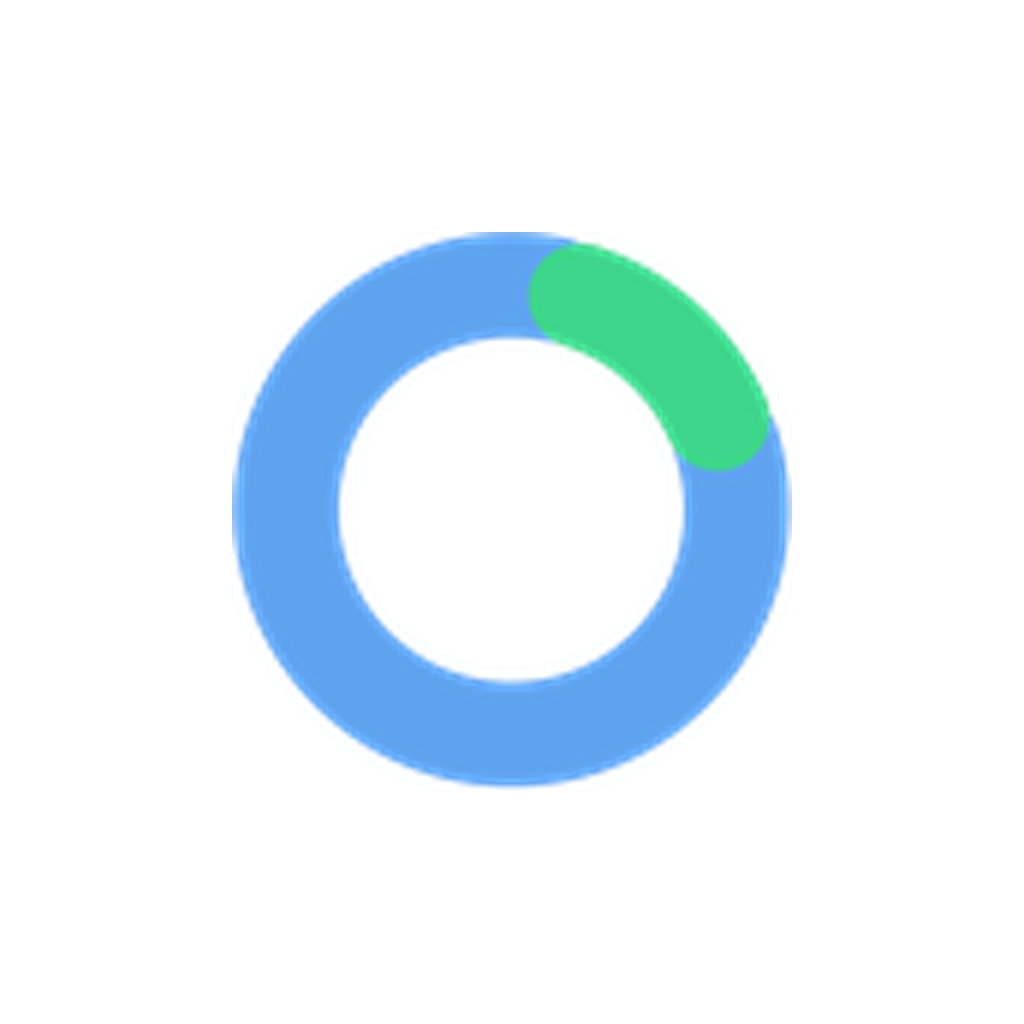
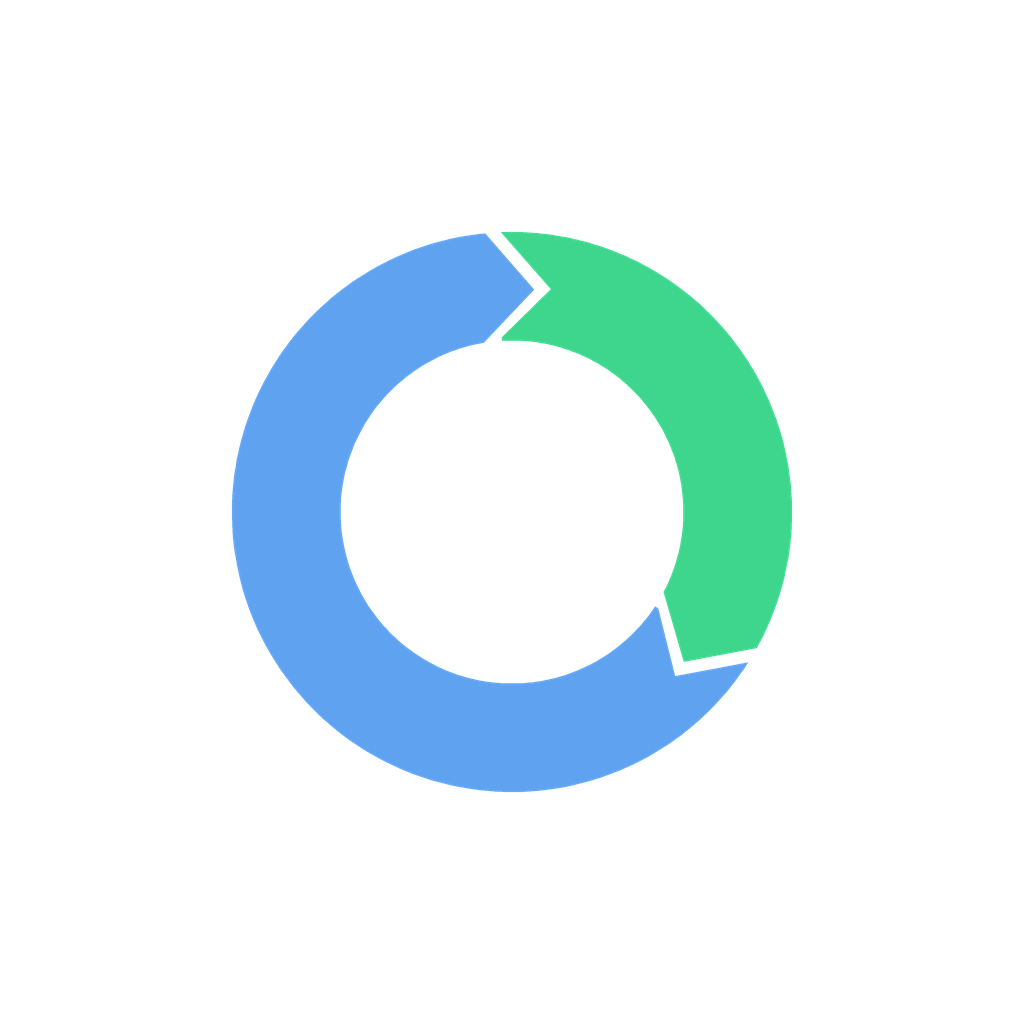
Replace raster ring/lockup with vector RingMark
The PNG exports looked jagged at display sizes (hard-threshold alpha, no
antialiasing). Web and mobile now render the ring as a real vector with a
live-text wordmark; brand PNGs regenerated. iOS build number 17.

diff --git a/mobile/components/ui.tsx b/mobile/components/ui.tsx
@@ -4,13 +4,17 @@ import { router } from "expo-router";
 import * as Haptics from "expo-haptics";
 import { useAuth } from "@/lib/auth-context";
 import { Icon } from "@/components/icon";
+import { RingMark } from "@/components/ring-mark";
 
-// Build Guide v2 Part 2.2 — the supplied brand assets, never redrawn. The
-// lockup (ring + wordmark) is the in-app masthead; the ring on its own is
-// the avatar mark and (Part 6.3) the payout progress indicator.
-export const LOCKUP = require("../assets/brand/lockup.png");
-export const RING = require("../assets/brand/ring.png");
-const LOCKUP_RATIO = 676 / 94;
+// Build Guide v2 Part 2.2 — the brand mark, never redrawn as a plain
+// circle. Rebrand, 22 Sept — sharp-cut ring replaces the old soft
+// rounded-pill ring, on direct instruction. First shipped as a raster PNG
+// (JPEG export, background removed) but that looked visibly
+// pixellated/jagged at real display sizes — hard-threshold alpha keying
+// has no edge antialiasing. Lockup and the ring mark are now real vector
+// components (RingMark, components/ring-mark.tsx) instead of flat images:
+// crisp at any size, and the wordmark is live Text rather than baked into
+// a raster, so it can never end up off-ratio or blurry from scaling either.
 
 // RN throws "Text strings must be rendered within a <Text> component" the
 // moment JSX text is a *sibling* of an interpolation (e.g. `Text {n} more`
@@ -72,13 +76,25 @@ export function AppHeader({ title, right }: { title?: string; right?: ReactNode 
 }
 
 export function Lockup({ height = 26 }: { height?: number }) {
+  // Ring + live "Trade"/"Sura" text, sized off one prop the same way the
+  // old flat image was — callers (AppHeader, sign-in, sign-up, welcome)
+  // don't need to change. Proportions (text cap-height vs. ring diameter,
+  // the gap between them) matched by eye against the original lockup
+  // composition rather than measured, since there's no longer a fixed
+  // image aspect ratio to derive them from.
+  const fontSize = Math.round(height * 0.72);
   return (
-    <Image
-      source={LOCKUP}
+    <View
+      className="flex-row items-center"
+      style={{ gap: Math.round(height * 0.14) }}
       accessibilityLabel="TradeSura"
-      style={{ height, width: Math.round(height * LOCKUP_RATIO) }}
-      resizeMode="contain"
-    />
+    >
+      <RingMark size={height} />
+      <Text style={{ fontSize, lineHeight: fontSize * 1.05 }} className="font-extrabold">
+        <Text className="text-white">Trade</Text>
+        <Text style={{ color: "#5FA3F0" }}>Sura</Text>
+      </Text>
+    </View>
   );
 }
 

diff --git a/app/page.tsx b/app/page.tsx
@@ -1,10 +1,10 @@
 "use client";
 
-import Image from "next/image";
 import { useEffect, useRef } from "react";
 import gsap from "gsap";
 import { ScrollTrigger } from "gsap/ScrollTrigger";
 import CursorGlow from "@/components/cursor-glow";
+import { RingMark } from "@/components/ring-mark";
 
 // Same language law as the mobile app's welcome screen (app/assets/TradeSura_Welcome_Screen_W0.html
 // §1): never "insurance", "cover", "protection", "warranty", "doorstep" in customer-facing copy.
@@ -106,14 +106,17 @@ export default function HomePage() {
         {/* Hero */}
         <section className="relative flex min-h-[92vh] flex-col items-center justify-center overflow-hidden px-6 py-24 text-center">
           <div className="relative flex flex-col items-center gap-6">
-            <Image
-              src="/brand/lockup.png"
-              alt="TradeSura"
-              width={340}
-              height={72}
-              priority
-              className="hero-fade h-auto w-[240px] sm:w-[320px]"
-            />
+            {/* Real vector mark + live text, not the old raster lockup —
+                that image was distorted here anyway (a fixed 340x72 box
+                that didn't match the source's true aspect ratio). See
+                components/ring-mark.tsx. */}
+            <div className="hero-fade flex items-center gap-3">
+              <RingMark size={48} />
+              <span className="text-4xl font-extrabold sm:text-6xl">
+                <span className="text-white">Trade</span>
+                <span className="text-[#5FA3F0]">Sura</span>
+              </span>
+            </div>
             <p className="hero-fade text-lg font-semibold text-flame sm:text-xl">Your trade. On plan.</p>
             <h1 className="hero-fade max-w-2xl text-3xl font-bold leading-tight sm:text-5xl">
               Your customers, paying you <span className="text-ok">every month.</span>

diff --git a/mobile/components/ring-mark.tsx b/mobile/components/ring-mark.tsx
@@ -1,0 +1,36 @@
+import Svg, { Path } from "react-native-svg";
+
+// The TradeSura ring mark, as real vector geometry rather than a raster
+// image. 22 Sept rebrand: the sharp-cut ring replaced the old soft
+// rounded-pill ring (on direct instruction), first shipped as a
+// background-removed JPEG export — which looked visibly pixellated/jagged
+// at real display sizes (hard-threshold alpha keying has no antialiasing,
+// so every edge was a hard staircase, worse the more the image was scaled).
+// This replaces that raster pipeline entirely: the two path `d` strings
+// below are the exact shape, measured from the original design via OpenCV
+// contour extraction + least-squares circle fitting on the source JPG
+// (scripts/ring_geometry.py has the full derivation and can regenerate
+// these), then re-expressed as true SVG elliptical-arc commands — exact
+// circles at any zoom, not a tessellated polygon. Renders crisply from a
+// favicon up to a full-bleed app icon with zero source-image artifacts.
+const GREEN_D =
+  "M 43.69 24.32 A 50.00 50.00 0 0 0 -2.01 -49.96 L 6.94 -39.79 L -1.76 -30.57 A 30.63 30.63 0 0 1 27.09 14.28 L 30.67 26.76 Z";
+const BLUE_D =
+  "M -4.79 -49.77 A 50.00 50.00 0 1 0 42.17 26.86 L 29.11 29.32 L 25.57 16.86 A 30.63 30.63 0 1 1 -5.05 -30.20 L 3.96 -39.72 Z";
+
+export const BRAND_BLUE = "#5FA3F0";
+export const BRAND_GREEN = "#3DD68C";
+
+/**
+ * The ring mark on its own — masthead icon, avatar fallback, app-icon
+ * source. `color` overrides both arcs to a single flat colour (for the
+ * white/monochrome variants); omit it for the real two-tone brand mark.
+ */
+export function RingMark({ size = 32, color }: { size?: number; color?: string }) {
+  return (
+    <Svg width={size} height={size} viewBox="-50 -50 100 100">
+      <Path d={BLUE_D} fill={color ?? BRAND_BLUE} />
+      <Path d={GREEN_D} fill={color ?? BRAND_GREEN} />
+    </Svg>
+  );
+}

diff --git a/components/shells.tsx b/components/shells.tsx
@@ -1,5 +1,6 @@
 import type { ReactNode } from "react";
 import { EMERGENCY_LINE } from "@/lib/compliance/interlock";
+import { RingMark } from "@/components/ring-mark";
 
 // Customer surface: white-label pages wearing the engineer's brand.
 // Emergency line sits permanently in the footer (spec Screen 10).
@@ -16,11 +17,10 @@ export function CustomerShell({
     <div className="flex-1 flex flex-col max-w-md w-full mx-auto min-h-screen bg-panel">
       <header className="bg-paper px-4 pt-4 pb-2.5 border-b border-line-soft">
         <div className="flex items-center gap-2">
-          {/* Build Guide v2 Part 15.1 — "Header: ring + trading name." The
-              supplied brand asset, never redrawn (Part 2.2). */}
-          {/* eslint-disable-next-line @next/next/no-img-element -- small
-              static brand asset, not worth Next/Image's optimisation path */}
-          <img src="/brand/ring.png" alt="" width={22} height={22} />
+          {/* Build Guide v2 Part 15.1 — "Header: ring + trading name." Real
+              vector (RingMark), not a raster image — see that component's
+              comment for why the earlier PNG export was replaced. */}
+          <RingMark size={22} />
           <div className="font-disp text-xl font-bold uppercase tracking-wide">
             {tradingName} <span className="text-flame">Care Plans</span>
           </div>

diff --git a/components/ring-mark.tsx b/components/ring-mark.tsx
@@ -1,0 +1,17 @@
+// Web counterpart of mobile/components/ring-mark.tsx — same measured path
+// data (see scripts/ring_geometry.py), plain SVG instead of react-native-svg
+// since this runs in the DOM. Kept in sync by hand; both are small and
+// change only if the mark itself is redesigned again.
+const GREEN_D =
+  "M 43.69 24.32 A 50.00 50.00 0 0 0 -2.01 -49.96 L 6.94 -39.79 L -1.76 -30.57 A 30.63 30.63 0 0 1 27.09 14.28 L 30.67 26.76 Z";
+const BLUE_D =
+  "M -4.79 -49.77 A 50.00 50.00 0 1 0 42.17 26.86 L 29.11 29.32 L 25.57 16.86 A 30.63 30.63 0 1 1 -5.05 -30.20 L 3.96 -39.72 Z";
+
+export function RingMark({ size = 22, color }: { size?: number; color?: string }) {
+  return (
+    <svg width={size} height={size} viewBox="-50 -50 100 100" aria-hidden="true">
+      <path d={BLUE_D} fill={color ?? "#5FA3F0"} />
+      <path d={GREEN_D} fill={color ?? "#3DD68C"} />
+    </svg>
+  );
+}

diff --git a/scripts/ring_geometry.py b/scripts/ring_geometry.py
@@ -1,0 +1,124 @@
+"""
+Precise geometric definition of the TradeSura sharp-cut ring mark, measured
+from the source design (app/assets/brand/logo-transparent.JPG) via OpenCV
+contour extraction + least-squares circle fitting (22 Sept rebrand).
+
+This replaces the raster (JPG -> background-removed PNG) pipeline, which
+produced visible pixellation/aliasing at real display sizes (hard-threshold
+alpha keying has no antialiasing). A true vector definition renders cleanly
+at any size — small favicon or large app icon alike — with no source-image
+artifacts at all.
+
+Coordinate system: unit circle, center (0,0), outer radius 1.0. Angles in
+degrees, standard math convention (0=east/3-o'clock, 90=north/12-o'clock,
+increasing = counterclockwise, matching how the shape actually reads on
+screen once paired with the SVG/PIL y-flip each renderer below applies.
+"""
+import math
+
+OUTER_R = 1.0
+INNER_R = 490.0 / 800.0  # 0.6125, measured ratio
+
+BRAND_BLUE = (95, 163, 240)   # #5FA3F0
+BRAND_GREEN = (61, 214, 140)  # #3DD68C
+
+# Each cut is the 3-vertex zigzag where two arcs meet: inner-circle point ->
+# notch tip -> outer-circle point. Measured independently from the blue and
+# green side of each cut (there's a small real gap between them in the
+# source design) rather than averaged, to preserve that gap faithfully.
+CUT_A_BLUE = dict(inner=(99.5, 500.2 / 800), tip=(84.3, 638.7 / 800), outer=(95.5, 784.2 / 800))
+CUT_A_GREEN = dict(inner=(93.3, 499.6 / 800), tip=(80.1, 646.2 / 800), outer=(92.3, 784.2 / 800))
+CUT_B_GREEN = dict(inner=(332.2, 500.3 / 800), tip=(318.9, 651.3 / 800), outer=(330.9, 784.5 / 800))
+CUT_B_BLUE = dict(inner=(326.6, 500.2 / 800), tip=(314.8, 661.1 / 800), outer=(327.5, 784.3 / 800))
+
+# Green runs from CUT_B (~331 deg) counterclockwise through 0 deg to CUT_A
+# (~93 deg). Blue runs from CUT_A (~96 deg) counterclockwise through 180 deg
+# to CUT_B (~327 deg).
+GREEN_START, GREEN_END = CUT_B_GREEN, CUT_A_GREEN
+BLUE_START, BLUE_END = CUT_A_BLUE, CUT_B_BLUE
+
+
+def _pt(angle_deg, radius):
+    a = math.radians(angle_deg)
+    return (radius * math.cos(a), radius * math.sin(a))
+
+
+def _arc_points(a0, a1, radius, n=90):
+    """Points from angle a0 to a1 (deg), increasing/CCW, at constant radius."""
+    if a1 < a0:
+        a1 += 360
+    return [_pt(a0 + (a1 - a0) * i / n, radius) for i in range(n + 1)]
+
+
+def segment_polygon(start_cut, end_cut, n_arc=90):
+    """One coloured ring segment as a closed polygon: outer arc from
+    start_cut.outer to end_cut.outer, in through end_cut's tip/inner vertex,
+    inner arc back to start_cut.inner, out through start_cut's tip."""
+    poly = []
+    poly += _arc_points(start_cut["outer"][0], end_cut["outer"][0], OUTER_R, n_arc)
+    poly.append(_pt(*end_cut["tip"]))
+    poly.append(_pt(*end_cut["inner"]))
+    poly += list(reversed(_arc_points(start_cut["inner"][0], end_cut["inner"][0], INNER_R, n_arc)))
+    poly.append(_pt(*start_cut["tip"]))
+    return poly
+
+
+def green_polygon(n_arc=90):
+    return segment_polygon(GREEN_START, GREEN_END, n_arc)
+
+
+def blue_polygon(n_arc=90):
+    return segment_polygon(BLUE_START, BLUE_END, n_arc)
+
+
+def _svg_arc_flag_sweep(a0, a1):
+    """SVG 'A' sweep-flag for a CCW arc in a y-down SVG coordinate space
+    (where our CCW-in-math-space arc reads as clockwise on screen)."""
+    return 1  # sweep=1 with the y-flip applied at path-build time below
+
+
+def segment_svg_path(start_cut, end_cut, scale=1.0):
+    """SVG path 'd' string for one coloured segment, using real elliptical-arc
+    commands (exact circles at any zoom) rather than a tessellated polyline.
+    Coordinates are in SVG space (y grows downward), so this negates y.
+    """
+    def sp(angle_deg, radius):
+        x, y = _pt(angle_deg, radius * scale)
+        return x, -y
+
+    ox0, oy0 = sp(start_cut["outer"][0], OUTER_R)
+    ox1, oy1 = sp(end_cut["outer"][0], OUTER_R)
+    tx, ty = sp(end_cut["tip"][0], end_cut["tip"][1])
+    ix1, iy1 = sp(end_cut["inner"][0], INNER_R)
+    ix0, iy0 = sp(start_cut["inner"][0], INNER_R)
+    stx, sty = sp(start_cut["tip"][0], start_cut["tip"][1])
+    R_out = OUTER_R * scale
+    R_in = INNER_R * scale
+
+    # Outer arc start->end: does it cross the 0/360 wrap going CCW in math
+    # space? If the end angle (normalised forward from start) exceeds 180,
+    # it's the "large arc".
+    def large_arc(a0, a1):
+        a1n = a1 if a1 >= a0 else a1 + 360
+        return 1 if (a1n - a0) > 180 else 0
+
+    large_outer = large_arc(start_cut["outer"][0], end_cut["outer"][0])
+    large_inner = large_arc(start_cut["inner"][0], end_cut["inner"][0])
+
+    d = (
+        f"M {ox0:.2f} {oy0:.2f} "
+        f"A {R_out:.2f} {R_out:.2f} 0 {large_outer} 0 {ox1:.2f} {oy1:.2f} "
+        f"L {tx:.2f} {ty:.2f} "
+        f"L {ix1:.2f} {iy1:.2f} "
+        f"A {R_in:.2f} {R_in:.2f} 0 {large_inner} 1 {ix0:.2f} {iy0:.2f} "
+        f"L {stx:.2f} {sty:.2f} Z"
+    )
+    return d
+
+
+def green_svg_path(scale=1.0):
+    return segment_svg_path(GREEN_START, GREEN_END, scale)
+
+
+def blue_svg_path(scale=1.0):
+    return segment_svg_path(BLUE_START, BLUE_END, scale)
